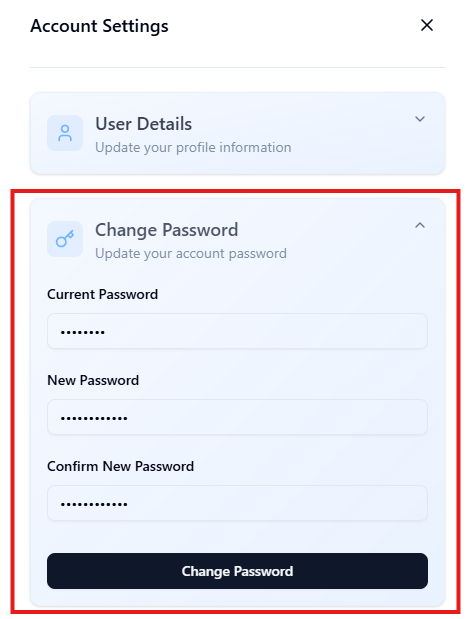
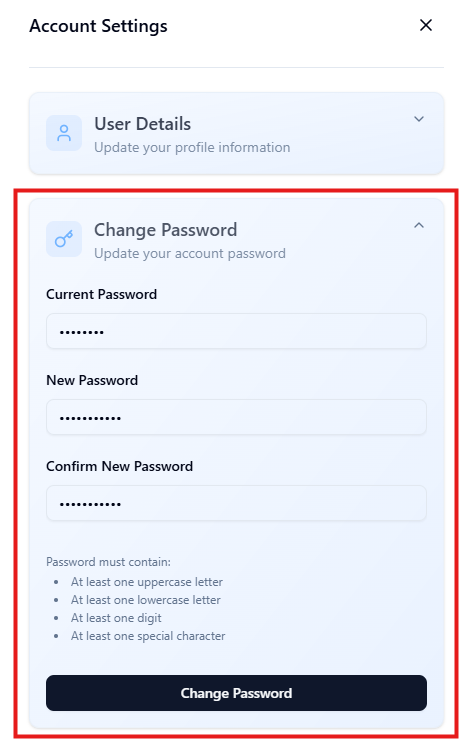
Enforce strong passwords

diff --git a/Source/Client/pot-react/src/features/userSettings/sections/changePassword/ChangePasswordForm.tsx b/Source/Client/pot-react/src/features/userSettings/sections/changePassword/ChangePasswordForm.tsx
@@ -46,6 +46,9 @@ function ChangePasswordForm() {
   }, []);
 
   async function onSubmit(values: ChangePasswordFields) {
+    // Clear any previous errors
+    setError(null);
+
     const result = await changePassword({
       currentPassword: values.currentPassword,
       newPassword: values.newPassword,
@@ -151,6 +154,16 @@ function ChangePasswordForm() {
             </FormItem>
           )}
         />
+
+        <div className="text-xs text-muted-foreground space-y-1 pt-2">
+          <p>Password must contain:</p>
+          <ul className="list-disc list-inside space-y-0.5 ml-2">
+            <li>At least one uppercase letter</li>
+            <li>At least one lowercase letter</li>
+            <li>At least one digit</li>
+            <li>At least one special character</li>
+          </ul>
+        </div>
 
         <Button type="submit" className="w-full mt-2" disabled={isPending}>
           Change Password

diff --git a/Source/Client/pot-react/src/features/userSettings/sections/changePassword/changePasswordSchema.ts b/Source/Client/pot-react/src/features/userSettings/sections/changePassword/changePasswordSchema.ts
@@ -3,7 +3,16 @@ import * as z from 'zod';
 const changePasswordSchema = z
   .object({
     currentPassword: z.string().min(1, 'Current password is required'),
-    newPassword: z.string().min(1, 'New password is required'),
+    newPassword: z
+      .string()
+      .min(1, 'New password is required')
+      .regex(/[A-Z]/, 'Password must contain at least one uppercase letter')
+      .regex(/[a-z]/, 'Password must contain at least one lowercase letter')
+      .regex(/\d/, 'Password must contain at least one digit')
+      .regex(
+        /[^a-zA-Z0-9\s]/,
+        'Password must contain at least one special character',
+      ),
     confirmPassword: z.string().min(1, 'Please confirm your new password'),
   })
   .refine(data => data.newPassword === data.confirmPassword, {

diff --git a/Source/Server/Pot.AspNetCore/Concerns/Validation/Validators/StrongPasswordValidator.cs b/Source/Server/Pot.AspNetCore/Concerns/Validation/Validators/StrongPasswordValidator.cs
@@ -1,0 +1,43 @@
+using FluentValidation;
+using System.Text.RegularExpressions;
+
+namespace Pot.AspNetCore.Concerns.Validation.Validators;
+
+public sealed partial class StrongPasswordValidator : AbstractValidator<string>
+{
+    [GeneratedRegex(@"[A-Z]")]
+    private static partial Regex UppercaseRegex();
+
+    [GeneratedRegex(@"[a-z]")]
+    private static partial Regex LowercaseRegex();
+
+    [GeneratedRegex(@"\d")]
+    private static partial Regex DigitRegex();
+
+    [GeneratedRegex(@"[^a-zA-Z0-9\s]")]
+    private static partial Regex SpecialCharacterRegex();
+
+    private static bool HasUppercase(string password) => UppercaseRegex().IsMatch(password);
+    private static bool HasLowercase(string password) => LowercaseRegex().IsMatch(password);
+    private static bool HasDigit(string password) => DigitRegex().IsMatch(password);
+    private static bool HasSpecialCharacter(string password) => SpecialCharacterRegex().IsMatch(password);
+
+    public StrongPasswordValidator()
+    {
+        RuleFor(password => password)
+            .Must(password => !string.IsNullOrWhiteSpace(password) && HasUppercase(password))
+            .WithMessage("Password must contain at least one uppercase letter.");
+
+        RuleFor(password => password)
+            .Must(password => !string.IsNullOrWhiteSpace(password) && HasLowercase(password))
+            .WithMessage("Password must contain at least one lowercase letter.");
+
+        RuleFor(password => password)
+            .Must(password => !string.IsNullOrWhiteSpace(password) && HasDigit(password))
+            .WithMessage("Password must contain at least one digit.");
+
+        RuleFor(password => password)
+            .Must(password => !string.IsNullOrWhiteSpace(password) && HasSpecialCharacter(password))
+            .WithMessage("Password must contain at least one special character.");
+    }
+}

diff --git a/Source/Server/Pot.AspNetCore/Features/Me/ChangePassword/RequestValidator.cs b/Source/Server/Pot.AspNetCore/Features/Me/ChangePassword/RequestValidator.cs
@@ -1,6 +1,7 @@
 using AllOverIt.Validation.Extensions;
 using FluentValidation;
 using Pot.AspNetCore.Concerns.Validation;
+using Pot.AspNetCore.Concerns.Validation.Validators;
 
 namespace Pot.AspNetCore.Features.Me.ChangePassword;
 
@@ -9,7 +10,7 @@ internal sealed class RequestValidator : PotValidatorBase<Request>
     public RequestValidator()
     {
         RuleFor(request => request.CurrentPassword).IsNotEmpty();
-        RuleFor(request => request.NewPassword).IsNotEmpty();
+        RuleFor(request => request.NewPassword).SetValidator(new StrongPasswordValidator());
 
         RuleFor(request => request)
             .Must(request => request.CurrentPassword != request.NewPassword)
